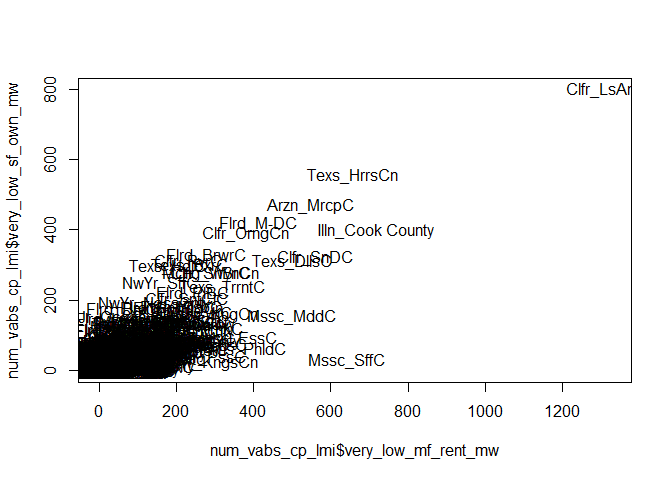
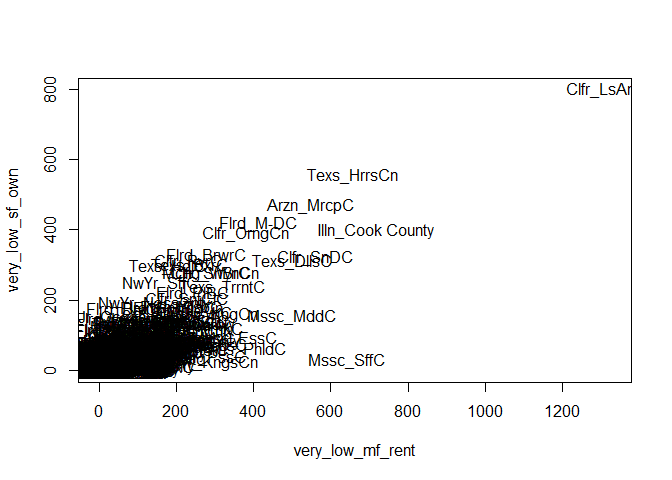
update code for R

Changed region(s): [[0.3125, 0.9062, 0.75, 0.9688], [0.0, 0.1562, 0.0312, 0.7812]]

diff --git a/Project_solar_energy.md b/Project_solar_energy.md
@@ -28,7 +28,7 @@ library(rgl)
 library(reshape2)
 ```
 
-**County-level aggregation** \#\# Using
+**County-level aggregation** \#Using
 SUM
 
 ``` r
@@ -120,13 +120,14 @@ values
 capacity_potential_lmi_clean <- capacity_potential_lmi[capacity_potential_lmi$COUNT<6,]
 ```
 
-\#Scatter plot
+\#Scatter
+plot
 
 ``` r
 pairs(scale(capacity_potential_lmi_clean[,4:15]))
 ```
 
-![](Project_solar_energy_files/figure-gfm/unnamed-chunk-8-1.png)<!-- -->
+<img src="Project_solar_energy_files/figure-gfm/unnamed-chunk-8-1.png" style="display: block; margin: auto;" />
 
 \#Extract numerical parts - **all counties**
 
@@ -134,7 +135,7 @@ pairs(scale(capacity_potential_lmi_clean[,4:15]))
 num_vabs_cp_lmi <- as.data.frame(capacity_potential_lmi_clean[,4:15])
 ```
 
-Correlation plot
+\#Correlation plot
 
 ``` r
 corr_mat = round(cor(num_vabs_cp_lmi),2)
@@ -154,14 +155,16 @@ rownames(num_vabs_cp_lmi) <- str_c(a,b,sep='_')
 *Outliers*
 
 ``` r
-plot(num_vabs_cp_lmi$very_low_mf_rent_mw,num_vabs_cp_lmi$very_low_sf_own_mw,type='n')
+#Observing very_low_mf_rent v. very_low_sf_own
+plot(num_vabs_cp_lmi$very_low_mf_rent_mw,num_vabs_cp_lmi$very_low_sf_own_mw,type='n',xlab='very_low_mf_rent',ylab='very_low_sf_own')
 text(num_vabs_cp_lmi$very_low_mf_rent_mw,num_vabs_cp_lmi$very_low_sf_own_mw,labels=rownames(num_vabs_cp_lmi))
 ```
 
 ![](Project_solar_energy_files/figure-gfm/unnamed-chunk-12-1.png)<!-- -->
 
 ``` r
-plot(num_vabs_cp_lmi$low_mf_rent_mw,num_vabs_cp_lmi$very_low_sf_rent_mw,type='n')
+#Observing low_mf_rent v. very_low_sf_rent
+plot(num_vabs_cp_lmi$low_mf_rent_mw,num_vabs_cp_lmi$very_low_sf_rent_mw,type='n',xlab='low_mf_rent',ylab='very_low_sf_rent')
 text(num_vabs_cp_lmi$low_mf_rent_mw,num_vabs_cp_lmi$very_low_sf_rent_mw,labels=rownames(num_vabs_cp_lmi))
 ```
 
